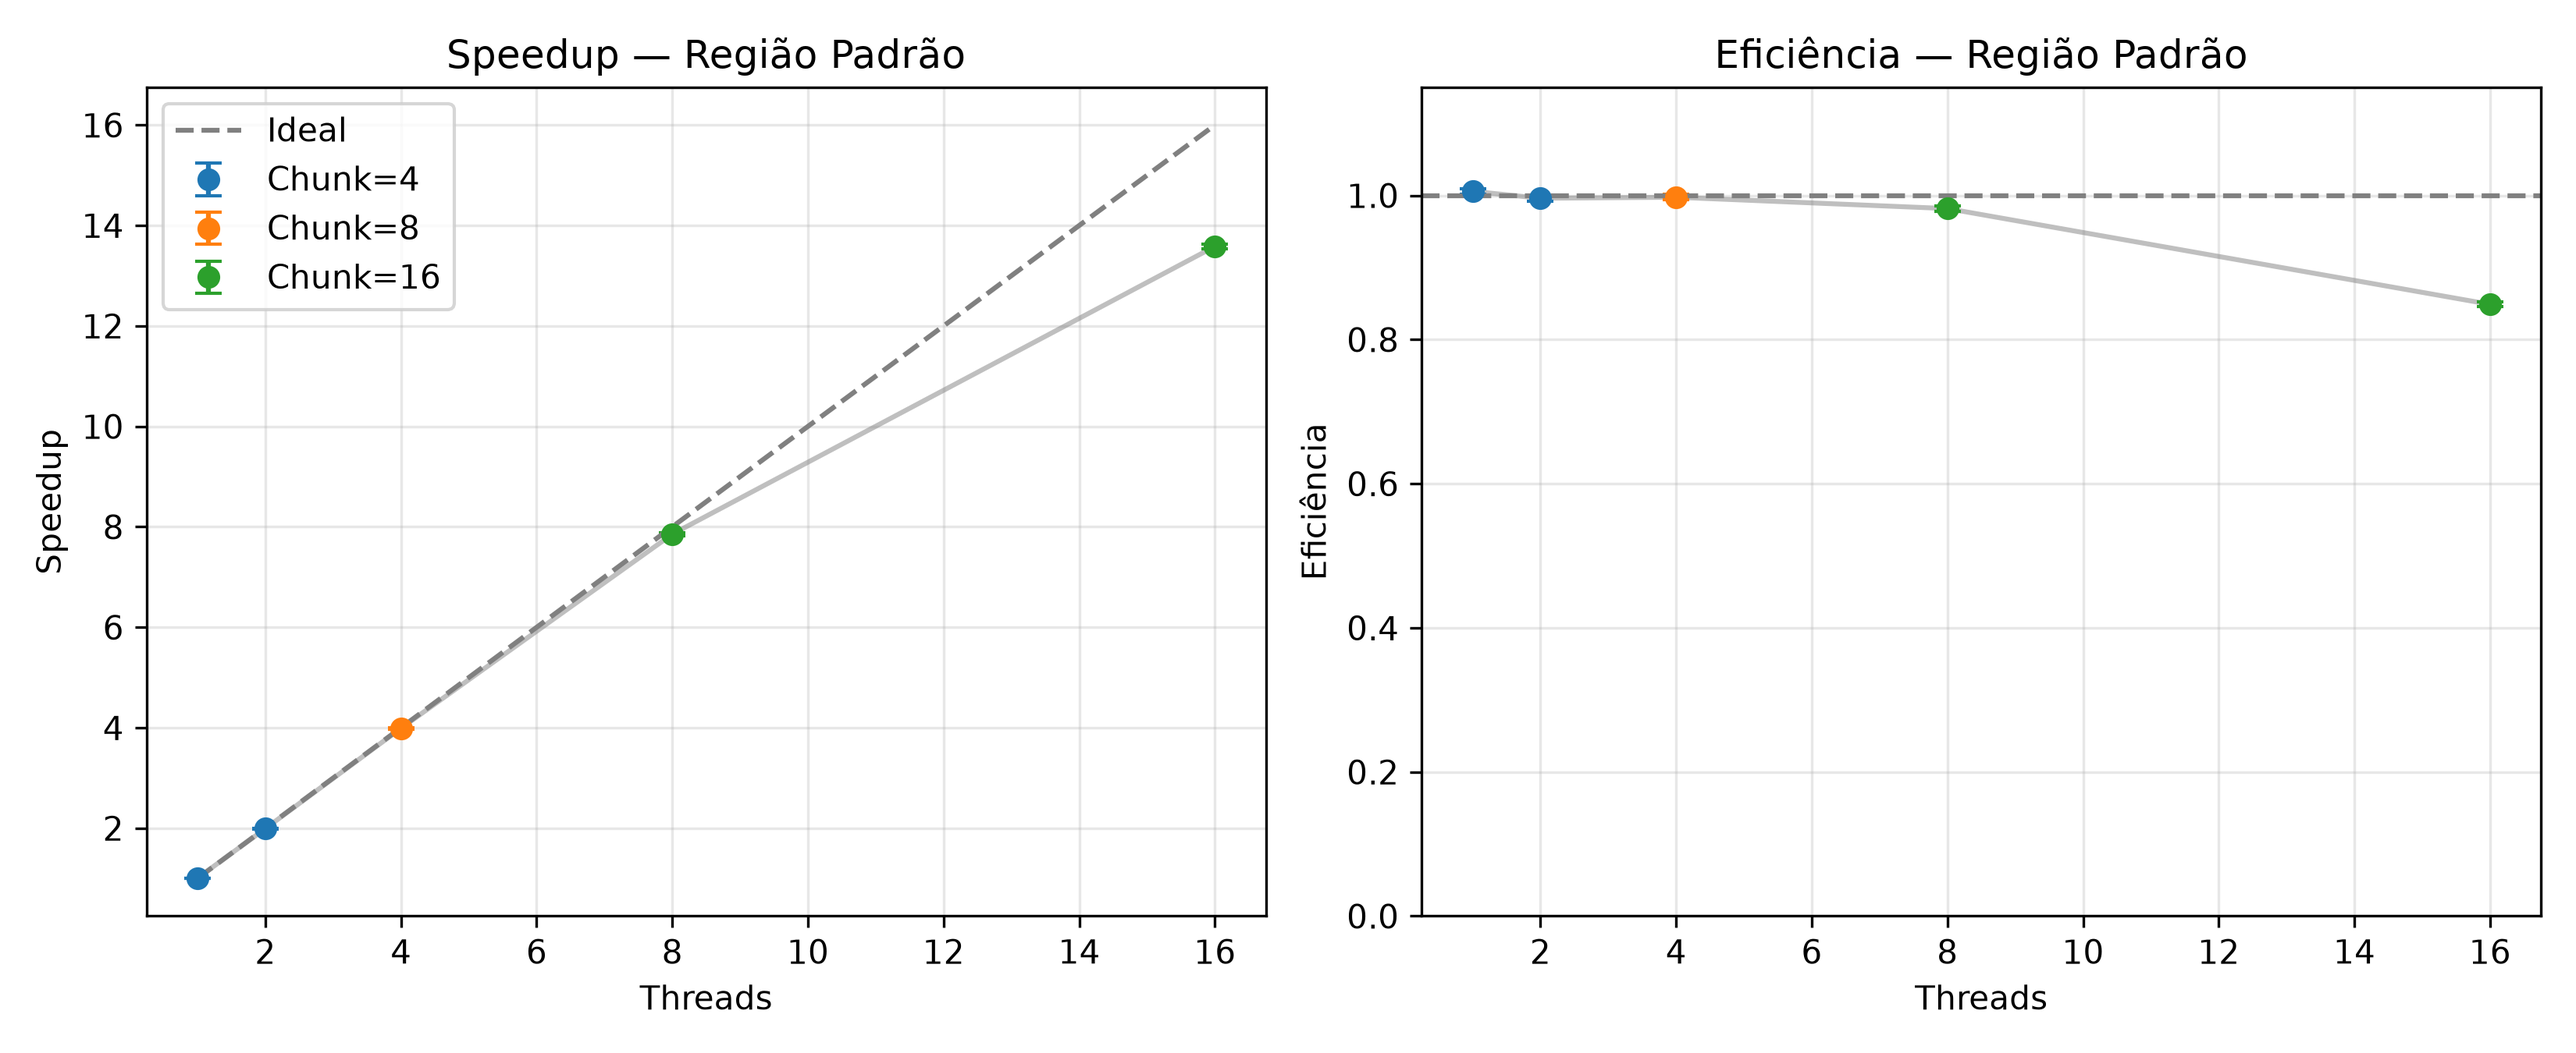
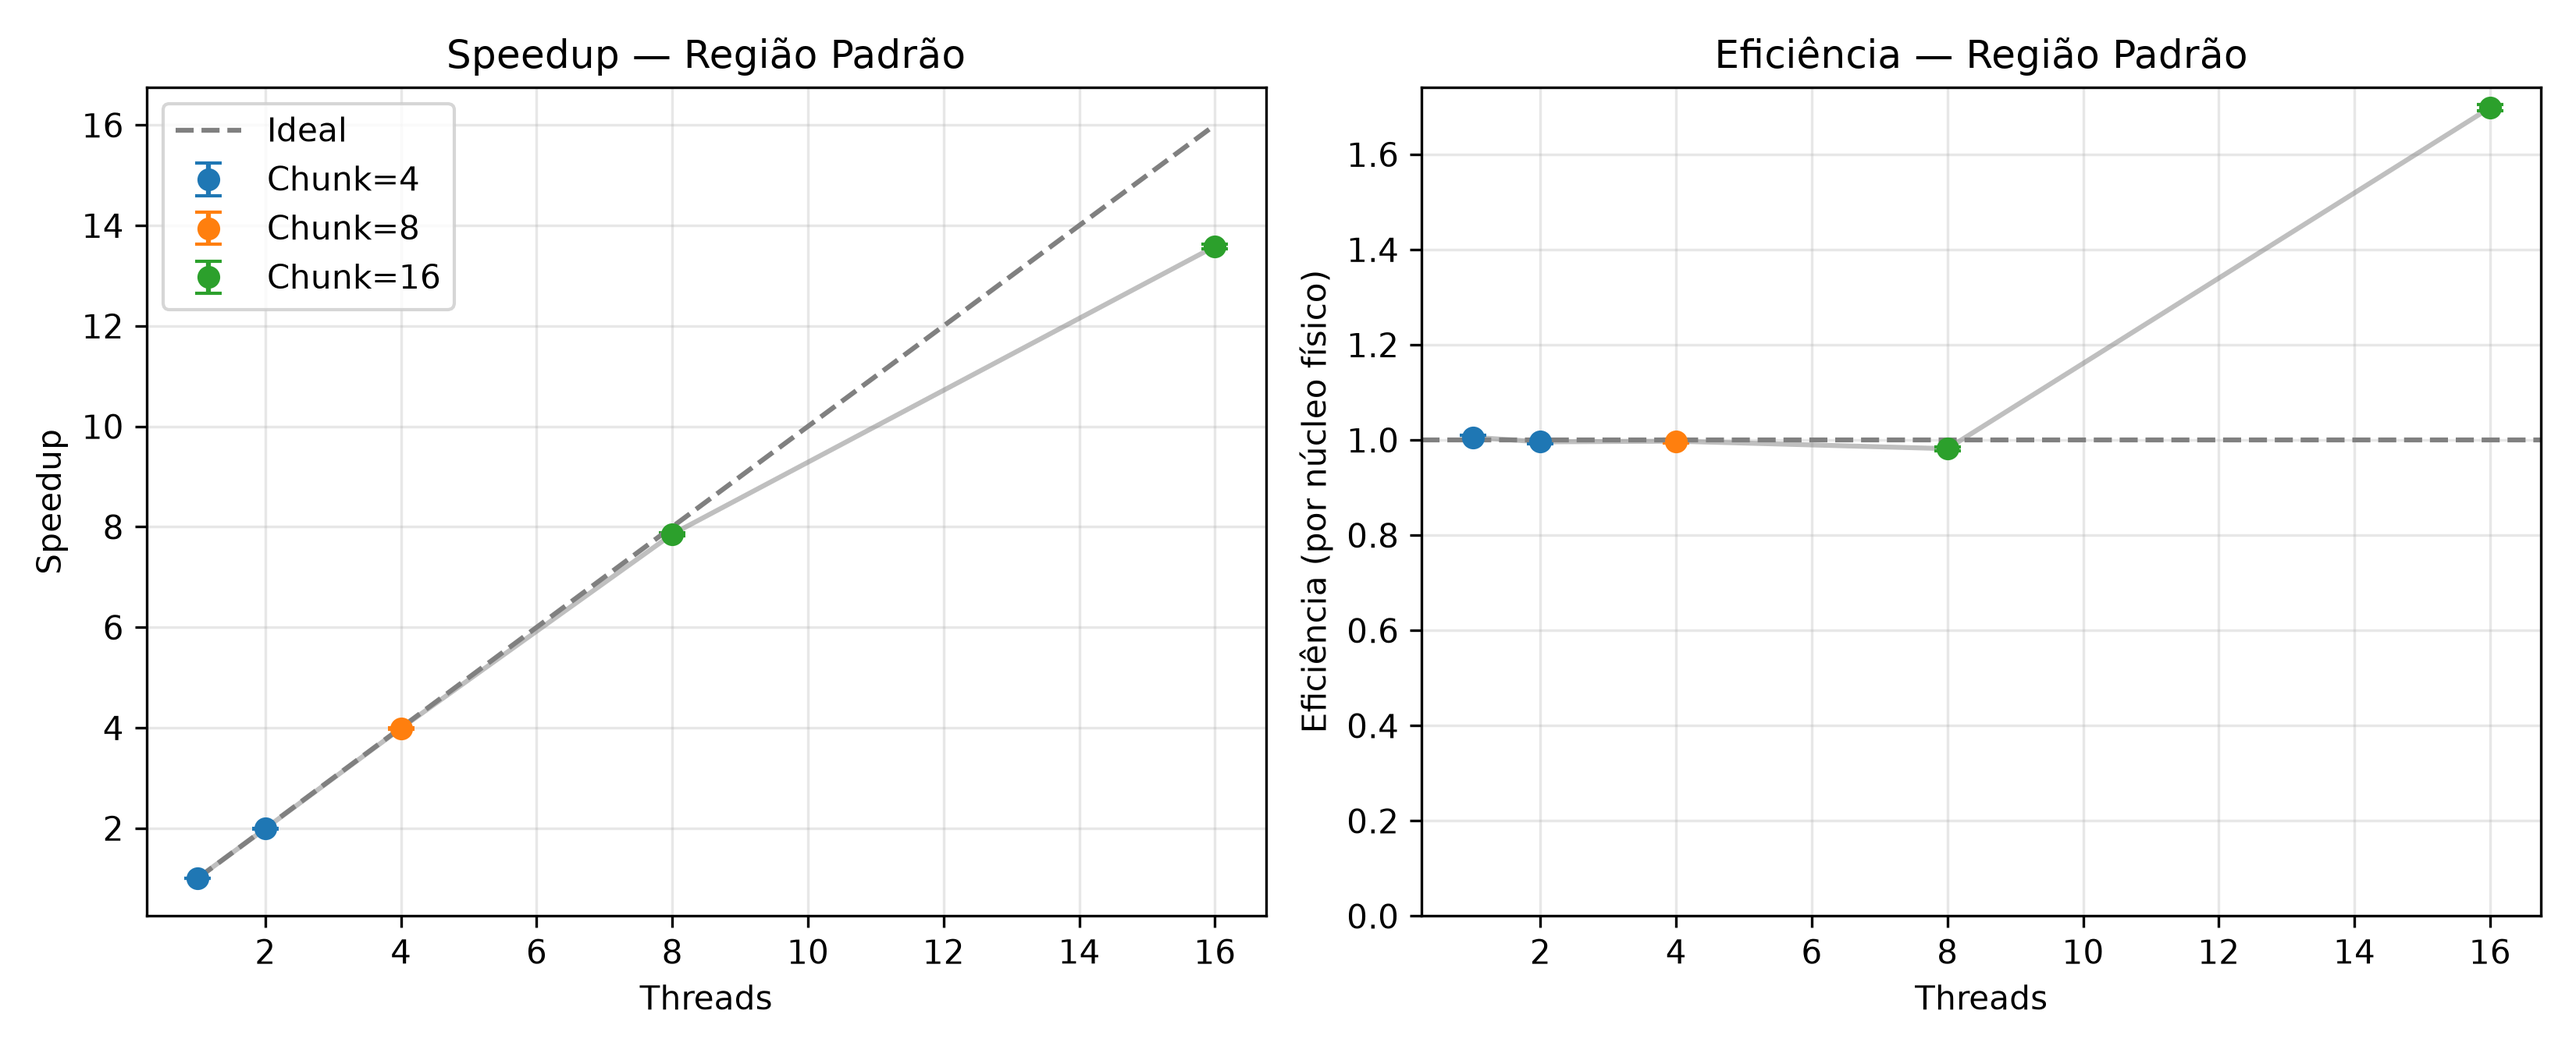
calculo eficiencia openmp

diff --git a/etapa1/scripts/analisar_final.py b/etapa1/scripts/analisar_final.py
@@ -2,6 +2,12 @@
 """
 Le 'resultados_finais.csv' e produz as analises finais:
 Speedup, Eficiência, Fator de Balanceamento e Escalabilidade.
+
+Eficiência = Speedup / núcleos físicos utilizados, com
+núcleos físicos utilizados = min(threads, N_FIS) (mesma definição da Etapa 2 / MPI).
+Com mais threads que núcleos físicos (SMT) a eficiência pode ultrapassar 1,0.
+O número de núcleos físicos vem de NUCLEOS_FISICOS (variável de ambiente),
+ou de psutil; defina NUCLEOS_FISICOS=8 se a detecção falhar (ex.: VM/WSL2).
 """
 import os
 import sys
@@ -22,6 +28,28 @@ os.makedirs("saida", exist_ok=True)
 CSV_PATH = sys.argv[1] if len(sys.argv) > 1 else "saida/resultados_finais.csv"
 OUT_DIR = Path("graficos")
 OUT_DIR.mkdir(exist_ok=True)
+
+def nucleos_fisicos():
+    """Nucleos fisicos: variavel NUCLEOS_FISICOS > psutil > fallback (logicos, com aviso)."""
+    if os.environ.get("NUCLEOS_FISICOS"):
+        return int(os.environ["NUCLEOS_FISICOS"])
+    try:
+        import psutil
+        n = psutil.cpu_count(logical=False)
+        if n:
+            return n
+    except ImportError:
+        pass
+    print("[aviso] nucleos fisicos nao detectados (pip install psutil ou defina NUCLEOS_FISICOS); usando logicos.")
+    return os.cpu_count() or 1
+
+N_FIS = nucleos_fisicos()
+
+def nucleos_usados(threads):
+    """min(threads, N_FIS); aceita Series ou escalar."""
+    if isinstance(threads, pd.Series):
+        return threads.clip(upper=N_FIS)
+    return min(threads, N_FIS)
 
 def carregar():
     if not os.path.exists(CSV_PATH):
@@ -62,9 +90,11 @@ def montar_tabela(df, baselines, caso):
     par["speedup"] = par["seq_media"] / par["T_Med_Glob"]
     par["speedup_min"] = (par["seq_media"] - par["seq_ic95"]) / par["T_Med_Glob"]
     par["speedup_max"] = (par["seq_media"] + par["seq_ic95"]) / par["T_Med_Glob"]
-    par["Eficiência"] = par["speedup"] / par["threads_alvo"]
-    par["Eficiência_min"] = par["speedup_min"] / par["threads_alvo"]
-    par["Eficiência_max"] = par["speedup_max"] / par["threads_alvo"]
+    # denominador = min(threads, nucleos fisicos)
+    nuc = nucleos_usados(par["threads_alvo"])
+    par["Eficiência"] = par["speedup"] / nuc
+    par["Eficiência_min"] = par["speedup_min"] / nuc
+    par["Eficiência_max"] = par["speedup_max"] / nuc
     
     # Coluna extra para diferenciar as 4 narrativas
     par["Escalonamento_Formatado"] = par["Escalonamento"].str.strip() + " (C=" + par["Chunk"].astype(str) + ")"
@@ -132,8 +162,8 @@ def grafico_strong_scaling(tabela, titulo, arquivo, arquivo_tempo=None, combine_
     ax1.set_title(f"Speedup — {titulo}"); ax1.legend(); ax1.grid(alpha=0.3)
 
     ax2.axhline(1.0, ls="--", color="gray")
-    ax2.set_xlabel("Threads"); ax2.set_ylabel("Eficiência")
-    ax2.set_ylim(0, 1.15); ax2.set_title(f"Eficiência — {titulo}")
+    ax2.set_xlabel("Threads"); ax2.set_ylabel("Eficiência (por núcleo físico)")
+    ax2.set_ylim(0, None); ax2.set_title(f"Eficiência — {titulo}")
     if not combine_chunks: ax2.legend()
     ax2.grid(alpha=0.3)
     salvar(fig, arquivo)
@@ -227,7 +257,11 @@ def grafico_weak_scaling(tabela, titulo, arquivo):
     
     ax1.plot(resolucoes, tabela["T_Med_Glob"], "o-", label="Paralelo (Dynamic, C = 16)")
     t1 = tabela["T_Med_Glob"].iloc[0]
-    ax1.axhline(t1, ls="--", color="gray", label="Ideal (constante)")
+    # Trabalho por thread constante => trabalho por nucleo fisico cresce em P / min(P, N_FIS),
+    # relativo a configuracao de referencia (primeira linha).
+    p_ref = int(threads.iloc[0])
+    fator = (threads / nucleos_usados(threads)) / (p_ref / nucleos_usados(p_ref))
+    ax1.plot(resolucoes, t1 * fator, "--", color="gray", label="Referência (E = 1 por núcleo físico)")
     
     for x, y, t in zip(resolucoes, tabela["T_Med_Glob"], threads):
         ax1.annotate(f"  {t}t", (x, y), textcoords="offset points", xytext=(5, -3), ha="left", va="center", fontsize=9, color="black", weight="bold")
@@ -235,15 +269,16 @@ def grafico_weak_scaling(tabela, titulo, arquivo):
     ax1.set_xlabel("Resolução Escalada (N)"); ax1.set_ylabel("Tempo (s)")
     ax1.set_title(f"Tempo — {titulo}"); ax1.legend(); ax1.grid(alpha=0.3)
 
-    Eficiência_fraca = t1 / tabela["T_Med_Glob"]
+    # E_w = (T_ref / T) * [(P / nucleos usados) / (P_ref / nucleos usados_ref)]
+    Eficiência_fraca = (t1 / tabela["T_Med_Glob"]) * fator
     ax2.plot(resolucoes, Eficiência_fraca, "o-", color="darkorange")
     ax2.axhline(1.0, ls="--", color="gray")
     
     for x, y, t in zip(resolucoes, Eficiência_fraca, threads):
         ax2.annotate(f"  {t}t", (x, y), textcoords="offset points", xytext=(5, -3), ha="left", va="center", fontsize=9, color="black", weight="bold")
 
-    ax2.set_xlabel("Resolução Escalada (N)"); ax2.set_ylabel("Eficiência")
-    ax2.set_ylim(0, 1.15); ax2.set_title(f"Eficiência de Escala Fraca")
+    ax2.set_xlabel("Resolução Escalada (N)"); ax2.set_ylabel("Eficiência (por núcleo físico)")
+    ax2.set_ylim(0, None); ax2.set_title(f"Eficiência de Escala Fraca")
     ax2.grid(alpha=0.3)
     salvar(fig, arquivo)
     
@@ -390,7 +425,7 @@ def gerar_tabela_relatorio(df, baselines):
         lambda r: r["seq_media"] / r["T_Med_Glob"] if r["Modo"].strip() == "Paralelo" else 1.0, axis=1
     )
     df_calc["Eficiencia_Real"] = df_calc.apply(
-        lambda r: r["Speedup_Real"] / r["Threads"] if r["Modo"].strip() == "Paralelo" else 1.0, axis=1
+        lambda r: r["Speedup_Real"] / nucleos_usados(r["Threads"]) if r["Modo"].strip() == "Paralelo" else 1.0, axis=1
     )
     
     # Substitui os -1 impressos pelo C pelos cálculos reais do Python

diff --git a/etapa1/graficos/tabela_bruta_relatorio.md b/etapa1/graficos/tabela_bruta_relatorio.md
@@ -10,50 +10,50 @@
 | A_padrao_threads      | Paralelo   |         2 | Dynamic         |       4 | 4096x4096   |              0 |       1.4442 |    1.9922 |       0.9961 |     0      |
 | A_padrao_threads      | Paralelo   |         4 | Dynamic         |       8 | 4096x4096   |              0 |       0.7211 |    3.9901 |       0.9975 |     0.0001 |
 | A_padrao_threads      | Paralelo   |         8 | Dynamic         |      16 | 4096x4096   |              0 |       0.3663 |    7.8545 |       0.9818 |     0.0019 |
-| A_padrao_threads      | Paralelo   |        16 | Dynamic         |      16 | 4096x4096   |              0 |       0.2118 |   13.583  |       0.8489 |     0.0386 |
+| A_padrao_threads      | Paralelo   |        16 | Dynamic         |      16 | 4096x4096   |              0 |       0.2118 |   13.583  |       1.6979 |     0.0386 |
 | B_cavalos_threads     | Paralelo   |         1 | Static          |       0 | 4096x4096   |             -1 |       2.4539 |    1.0207 |       1.0207 |     0      |
 | B_cavalos_threads     | Paralelo   |         2 | Static          |       0 | 4096x4096   |             -1 |       1.3121 |    1.9088 |       0.9544 |     0.1099 |
 | B_cavalos_threads     | Paralelo   |         4 | Static          |       0 | 4096x4096   |             -1 |       0.7035 |    3.5601 |       0.89   |     0.3214 |
 | B_cavalos_threads     | Paralelo   |         8 | Static          |       0 | 4096x4096   |             -1 |       0.3877 |    6.4611 |       0.8076 |     0.5313 |
-| B_cavalos_threads     | Paralelo   |        16 | Static          |       0 | 4096x4096   |             -1 |       0.2203 |   11.3691 |       0.7106 |     0.5275 |
+| B_cavalos_threads     | Paralelo   |        16 | Static          |       0 | 4096x4096   |             -1 |       0.2203 |   11.3691 |       1.4211 |     0.5275 |
 | B_cavalos_threads     | Paralelo   |         1 | Dynamic         |      16 | 4096x4096   |             -1 |       2.4548 |    1.0203 |       1.0203 |     0      |
 | B_cavalos_threads     | Paralelo   |         2 | Dynamic         |      16 | 4096x4096   |             -1 |       1.2416 |    2.0172 |       1.0086 |     0.0033 |
 | B_cavalos_threads     | Paralelo   |         4 | Dynamic         |      16 | 4096x4096   |             -1 |       0.6238 |    4.0152 |       1.0038 |     0.0085 |
 | B_cavalos_threads     | Paralelo   |         8 | Dynamic         |      16 | 4096x4096   |             -1 |       0.3193 |    7.8446 |       0.9806 |     0.0176 |
-| B_cavalos_threads     | Paralelo   |        16 | Dynamic         |      16 | 4096x4096   |             -1 |       0.1853 |   13.5186 |       0.8449 |     0.0368 |
+| B_cavalos_threads     | Paralelo   |        16 | Dynamic         |      16 | 4096x4096   |             -1 |       0.1853 |   13.5186 |       1.6898 |     0.0368 |
 | B_cavalos_threads     | Paralelo   |         1 | Guided          |      16 | 4096x4096   |             -1 |       2.4586 |    1.0187 |       1.0187 |     0      |
 | B_cavalos_threads     | Paralelo   |         2 | Guided          |      16 | 4096x4096   |             -1 |       1.3108 |    1.9108 |       0.9554 |     0.1095 |
 | B_cavalos_threads     | Paralelo   |         4 | Guided          |      16 | 4096x4096   |             -1 |       0.704  |    3.5578 |       0.8895 |     0.1606 |
 | B_cavalos_threads     | Paralelo   |         8 | Guided          |      16 | 4096x4096   |             -1 |       0.3359 |    7.4556 |       0.932  |     0.0802 |
-| B_cavalos_threads     | Paralelo   |        16 | Guided          |      16 | 4096x4096   |             -1 |       0.1911 |   13.1051 |       0.8191 |     0.0556 |
+| B_cavalos_threads     | Paralelo   |        16 | Guided          |      16 | 4096x4096   |             -1 |       0.1911 |   13.1051 |       1.6381 |     0.0556 |
 | B_cavalos_threads     | Paralelo   |         1 | Static          |       2 | 4096x4096   |             -1 |       2.4598 |    1.0183 |       1.0183 |     0      |
 | B_cavalos_threads     | Paralelo   |         2 | Static          |       2 | 4096x4096   |             -1 |       1.242  |    2.0167 |       1.0083 |     0.0021 |
 | B_cavalos_threads     | Paralelo   |         4 | Static          |       2 | 4096x4096   |             -1 |       0.6236 |    4.0161 |       1.004  |     0.0089 |
 | B_cavalos_threads     | Paralelo   |         8 | Static          |       2 | 4096x4096   |             -1 |       0.3202 |    7.8231 |       0.9779 |     0.0243 |
-| B_cavalos_threads     | Paralelo   |        16 | Static          |       2 | 4096x4096   |             -1 |       0.1894 |   13.2222 |       0.8264 |     0.078  |
+| B_cavalos_threads     | Paralelo   |        16 | Static          |       2 | 4096x4096   |             -1 |       0.1894 |   13.2222 |       1.6528 |     0.078  |
 | C_weak_scaling        | Paralelo   |         2 | Dynamic         |      16 | 5793x5793   |             -1 |       2.892  |    1.9917 |       0.9958 |     0.0001 |
 | C_weak_scaling        | Paralelo   |         4 | Dynamic         |      16 | 8192x8192   |             -1 |       2.8893 |    3.9708 |       0.9927 |     0.0002 |
 | C_weak_scaling        | Paralelo   |         8 | Dynamic         |      16 | 11585x11585 |             -1 |       2.9208 |    7.8671 |       0.9834 |     0.0003 |
-| C_weak_scaling        | Paralelo   |        16 | Dynamic         |      16 | 16384x16384 |             -1 |       3.2952 |   13.9272 |       0.8704 |     0.0006 |
-| D_chunk_effect        | Paralelo   |        16 | Dynamic         |       1 | 4096x4096   |             -1 |       0.1964 |   12.7525 |       0.797  |     0.0095 |
-| D_chunk_effect        | Paralelo   |        16 | Dynamic         |       2 | 4096x4096   |             -1 |       0.1836 |   13.6397 |       0.8525 |     0.008  |
-| D_chunk_effect        | Paralelo   |        16 | Dynamic         |       4 | 4096x4096   |             -1 |       0.1877 |   13.3444 |       0.834  |     0.0163 |
-| D_chunk_effect        | Paralelo   |        16 | Dynamic         |      16 | 4096x4096   |             -1 |       0.1852 |   13.5263 |       0.8454 |     0.0372 |
-| D_chunk_effect        | Paralelo   |        16 | Dynamic         |      64 | 4096x4096   |             -1 |       0.193  |   12.9757 |       0.811  |     0.1099 |
-| D_chunk_effect        | Paralelo   |        16 | Dynamic         |     256 | 4096x4096   |             -1 |       0.2225 |   11.2555 |       0.7035 |     0.5269 |
-| D_chunk_effect        | Paralelo   |        16 | Dynamic         |    1024 | 4096x4096   |             -1 |       0.7056 |    3.5499 |       0.2219 |     1      |
+| C_weak_scaling        | Paralelo   |        16 | Dynamic         |      16 | 16384x16384 |             -1 |       3.2952 |   13.9272 |       1.7409 |     0.0006 |
+| D_chunk_effect        | Paralelo   |        16 | Dynamic         |       1 | 4096x4096   |             -1 |       0.1964 |   12.7525 |       1.5941 |     0.0095 |
+| D_chunk_effect        | Paralelo   |        16 | Dynamic         |       2 | 4096x4096   |             -1 |       0.1836 |   13.6397 |       1.705  |     0.008  |
+| D_chunk_effect        | Paralelo   |        16 | Dynamic         |       4 | 4096x4096   |             -1 |       0.1877 |   13.3444 |       1.6681 |     0.0163 |
+| D_chunk_effect        | Paralelo   |        16 | Dynamic         |      16 | 4096x4096   |             -1 |       0.1852 |   13.5263 |       1.6908 |     0.0372 |
+| D_chunk_effect        | Paralelo   |        16 | Dynamic         |      64 | 4096x4096   |             -1 |       0.193  |   12.9757 |       1.622  |     0.1099 |
+| D_chunk_effect        | Paralelo   |        16 | Dynamic         |     256 | 4096x4096   |             -1 |       0.2225 |   11.2555 |       1.4069 |     0.5269 |
+| D_chunk_effect        | Paralelo   |        16 | Dynamic         |    1024 | 4096x4096   |             -1 |       0.7056 |    3.5499 |       0.4437 |     1      |
 | A_padrao_sem_simetria | Paralelo   |         1 | Dynamic         |       4 | 4096x4096   |             -1 |       5.6868 |    0.5059 |       0.5059 |     0      |
 | A_padrao_sem_simetria | Paralelo   |         2 | Dynamic         |       4 | 4096x4096   |             -1 |       2.8641 |    1.0045 |       0.5023 |     0      |
 | A_padrao_sem_simetria | Paralelo   |         4 | Dynamic         |       8 | 4096x4096   |             -1 |       1.4359 |    2.0037 |       0.5009 |     0.0001 |
 | A_padrao_sem_simetria | Paralelo   |         8 | Dynamic         |      16 | 4096x4096   |             -1 |       0.724  |    3.9741 |       0.4968 |     0.0022 |
-| A_padrao_sem_simetria | Paralelo   |        16 | Dynamic         |      16 | 4096x4096   |             -1 |       0.4131 |    6.9643 |       0.4353 |     0.0403 |
+| A_padrao_sem_simetria | Paralelo   |        16 | Dynamic         |      16 | 4096x4096   |             -1 |       0.4131 |    6.9643 |       0.8705 |     0.0403 |
 | B_cavalos_threads     | Paralelo   |         1 | Dynamic         |     128 | 4096x4096   |             -1 |       2.4568 |    1.0195 |       1.0195 |     0      |
 | B_cavalos_threads     | Paralelo   |         2 | Dynamic         |     128 | 4096x4096   |             -1 |       1.2477 |    2.0074 |       1.0037 |     0.0116 |
 | B_cavalos_threads     | Paralelo   |         4 | Dynamic         |     128 | 4096x4096   |             -1 |       0.626  |    4.001  |       1.0002 |     0.0123 |
 | B_cavalos_threads     | Paralelo   |         8 | Dynamic         |     128 | 4096x4096   |             -1 |       0.3361 |    7.4525 |       0.9316 |     0.1057 |
-| B_cavalos_threads     | Paralelo   |        16 | Dynamic         |     128 | 4096x4096   |             -1 |       0.2038 |   12.2881 |       0.768  |     0.2395 |
+| B_cavalos_threads     | Paralelo   |        16 | Dynamic         |     128 | 4096x4096   |             -1 |       0.2038 |   12.2881 |       1.536  |     0.2395 |
 | B_cavalos_threads     | Paralelo   |         1 | Guided          |     128 | 4096x4096   |             -1 |       2.4688 |    1.0145 |       1.0145 |     0      |
 | B_cavalos_threads     | Paralelo   |         2 | Guided          |     128 | 4096x4096   |             -1 |       1.3194 |    1.8984 |       0.9492 |     0.1084 |
 | B_cavalos_threads     | Paralelo   |         4 | Guided          |     128 | 4096x4096   |             -1 |       0.7079 |    3.538  |       0.8845 |     0.1791 |
 | B_cavalos_threads     | Paralelo   |         8 | Guided          |     128 | 4096x4096   |             -1 |       0.3441 |    7.2792 |       0.9099 |     0.0998 |
-| B_cavalos_threads     | Paralelo   |        16 | Guided          |     128 | 4096x4096   |             -1 |       0.2354 |   10.6415 |       0.6651 |     0.2353 |
+| B_cavalos_threads     | Paralelo   |        16 | Guided          |     128 | 4096x4096   |             -1 |       0.2354 |   10.6415 |       1.3302 |     0.2353 |
